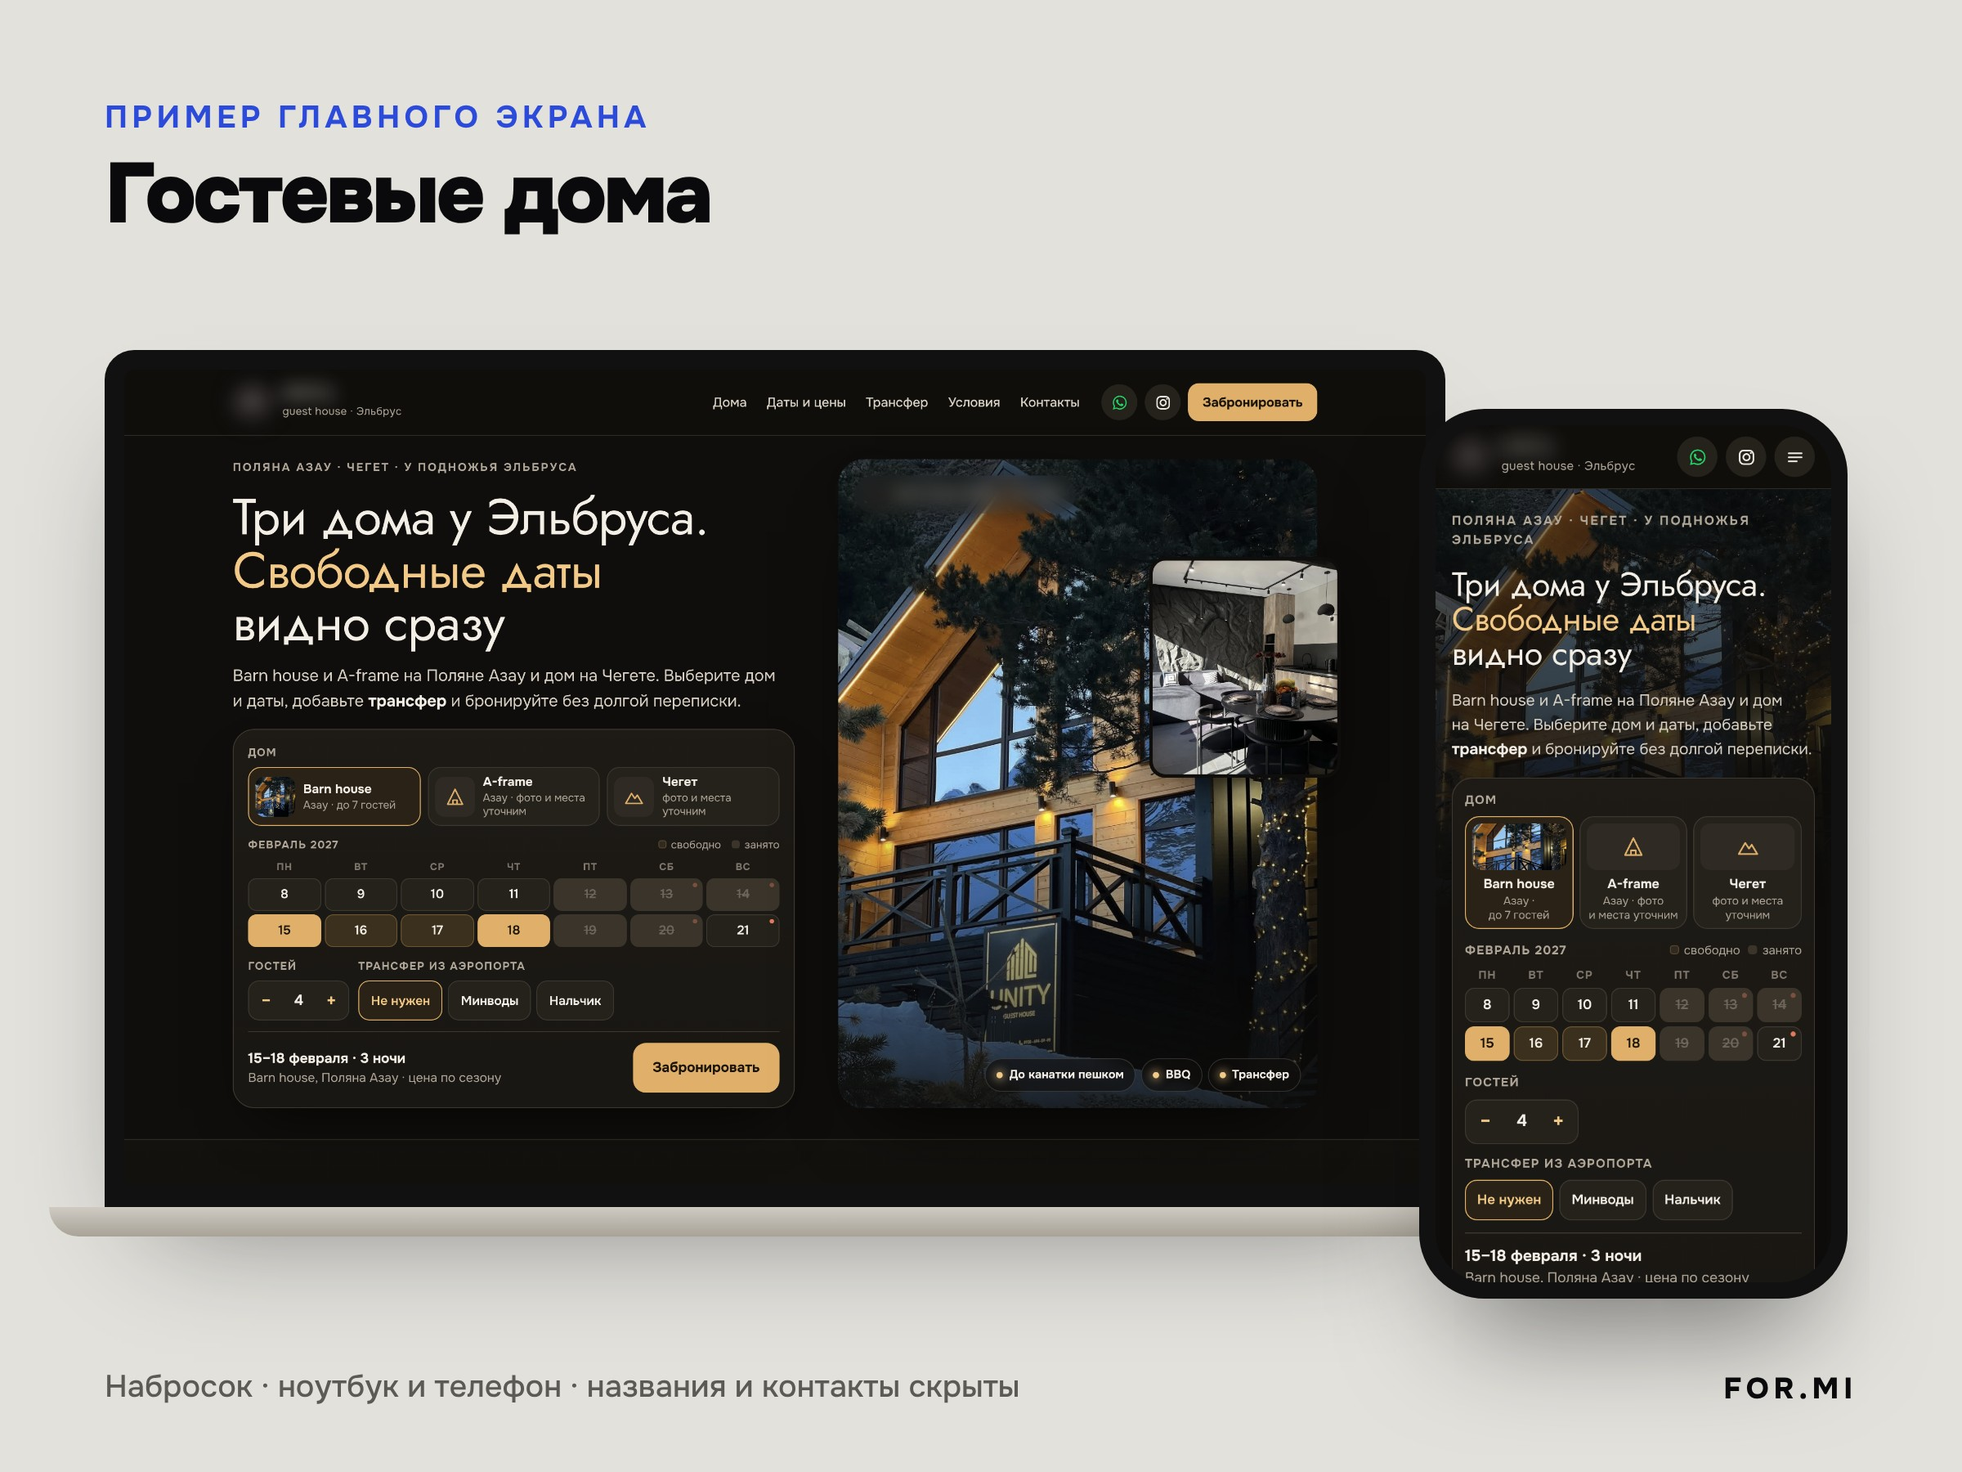
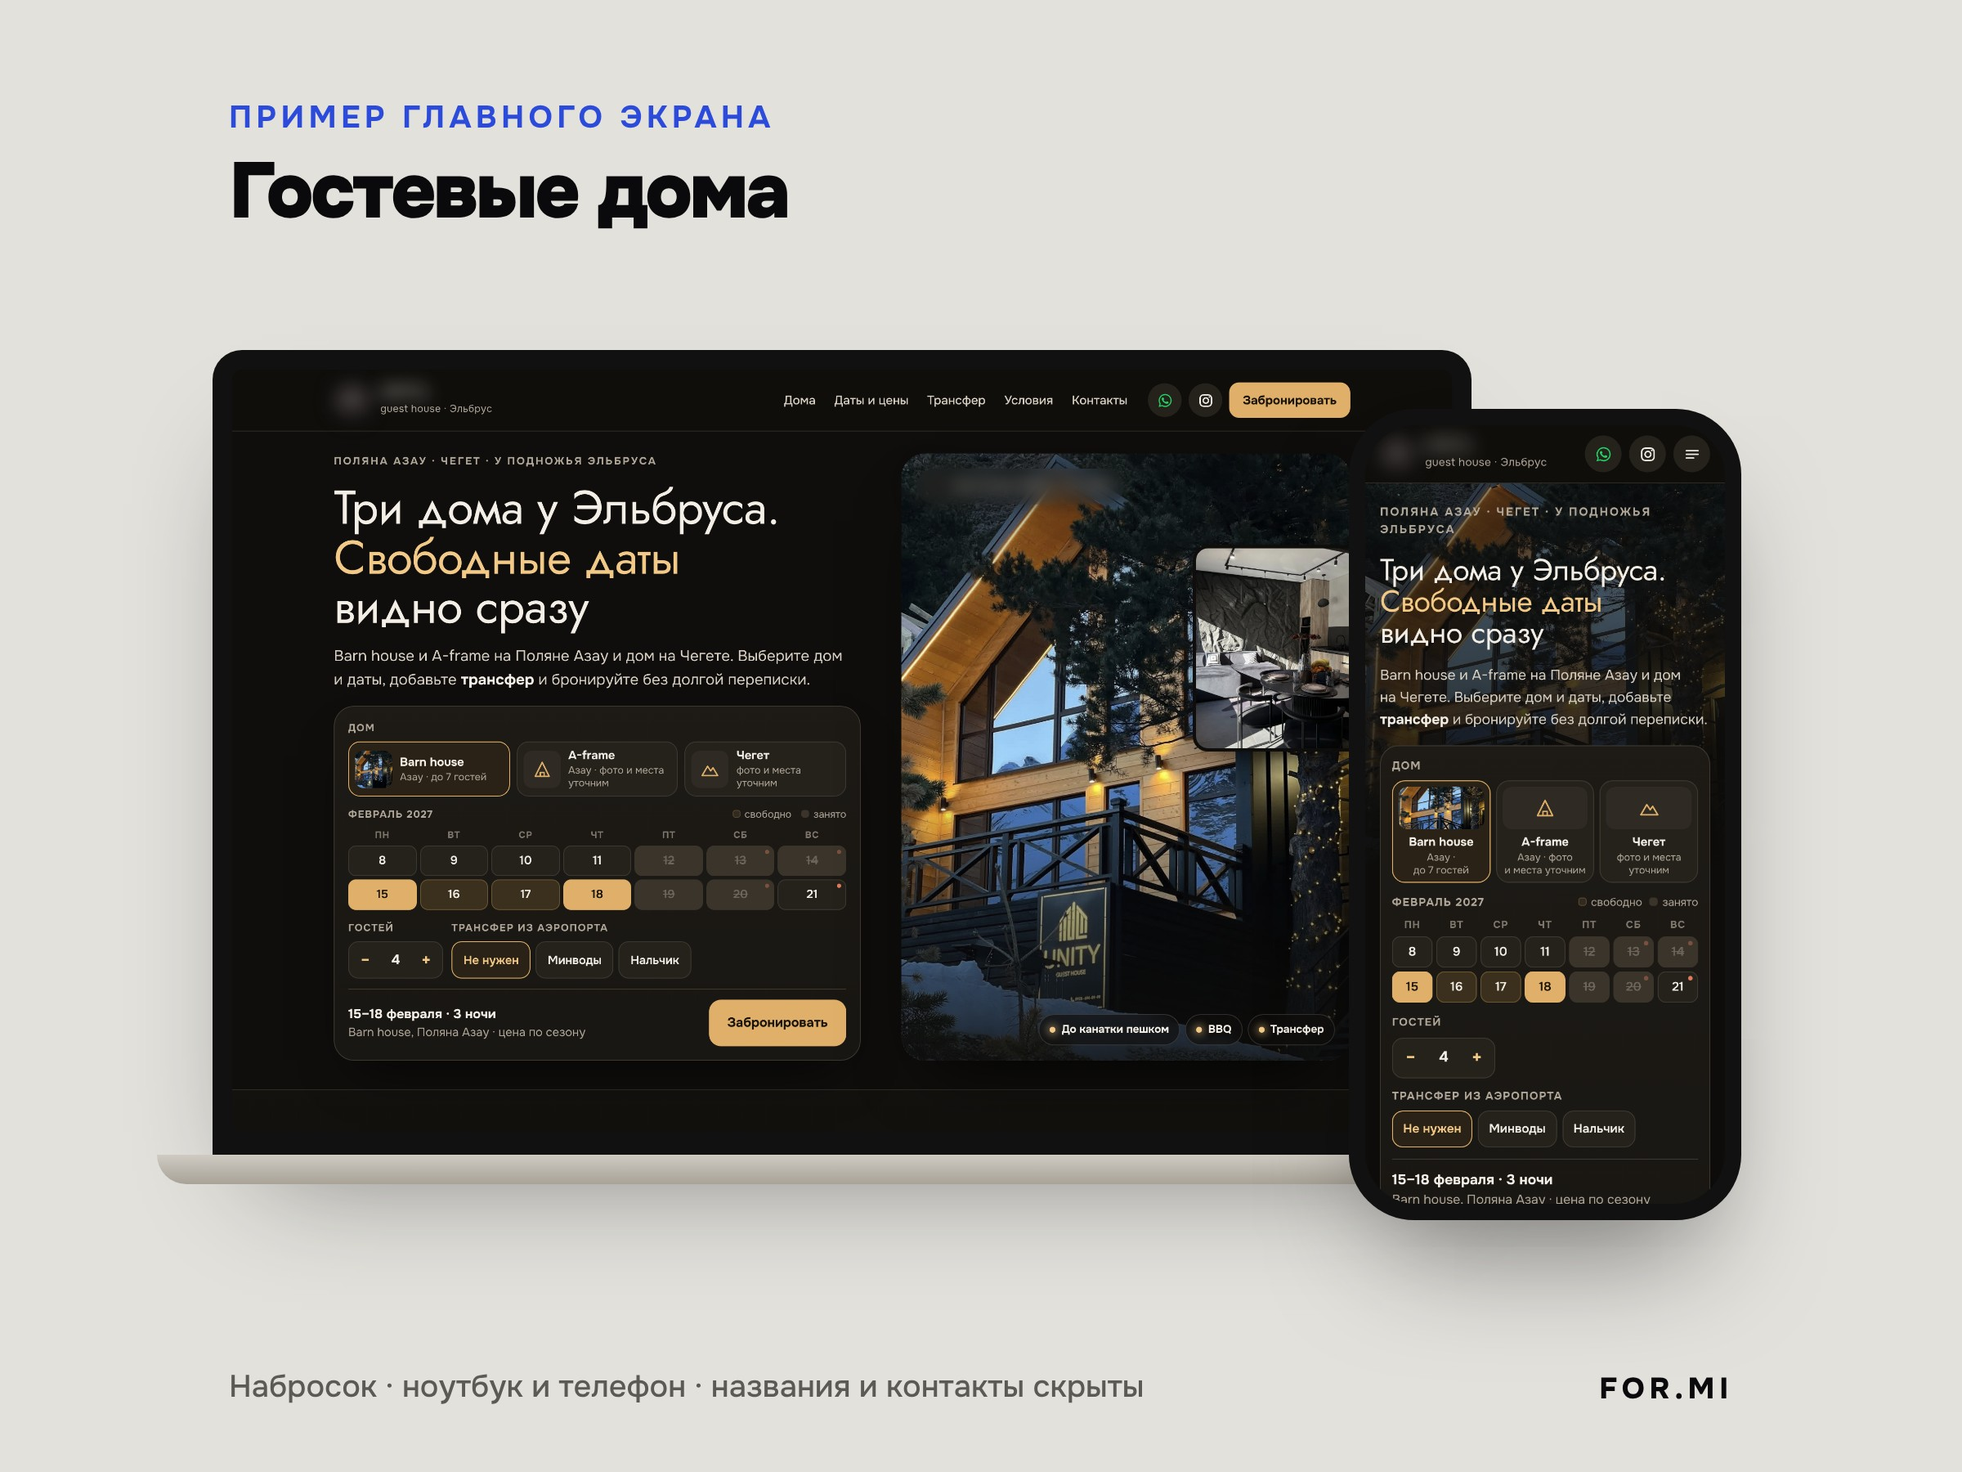
Авито: всё содержимое слайдов в безопасной зоне, приложение обрезает края
Claude-Session: https://claude.ai/code/session_01MqcZMHdjeZFFUuT8aB5MzJ

diff --git a/_instrumenty/avito.js b/_instrumenty/avito.js
@@ -84,49 +84,49 @@ h1,h2{margin:0;font-weight:900;letter-spacing:-.035em}
 </style>`;
 
 const exampleHtml=w=>`<!doctype html><html lang="ru"><head>${head}</head><body><div class="c">
-<div style="position:absolute;left:64px;top:60px;display:grid;gap:8px">
+<div style="position:absolute;left:140px;top:60px;display:grid;gap:8px">
   <div class="eb">Пример главного экрана</div>
-  <h2 style="font-size:52px;line-height:1.05">${w.niche}</h2>
+  <h2 style="font-size:48px;line-height:1.05">${w.niche}</h2>
 </div>
-<div class="lap" style="left:64px;top:214px;width:820px"><div class="sc"><img src="${fileUrl(w.lap)}"></div><div class="base"></div></div>
-<div class="tel" style="right:70px;top:250px;width:262px"><img src="${fileUrl(w.tel)}"></div>
-<div style="position:absolute;left:64px;bottom:40px;font-size:19px;color:${C.muted};font-weight:500">Набросок · ноутбук и телефон · названия и контакты скрыты</div>
-<div class="brand" style="right:64px;bottom:40px">FOR.MI</div>
+<div class="lap" style="left:130px;top:214px;width:770px"><div class="sc"><img src="${fileUrl(w.lap)}"></div><div class="base"></div></div>
+<div class="tel" style="right:135px;top:250px;width:240px"><img src="${fileUrl(w.tel)}"></div>
+<div style="position:absolute;left:140px;bottom:40px;font-size:19px;color:${C.muted};font-weight:500">Набросок · ноутбук и телефон · названия и контакты скрыты</div>
+<div class="brand" style="right:140px;bottom:40px">FOR.MI</div>
 </div></body></html>`;
 
 const stepsHtml=()=>`<!doctype html><html lang="ru"><head>${head}
 <style>.st{display:grid;grid-template-columns:84px 1fr;gap:24px;align-items:center;padding:24px 0;border-top:1px solid ${C.line}}
 .st b{width:70px;height:70px;border-radius:50%;background:${C.blue};color:#fff;display:grid;place-items:center;font-size:32px;font-weight:800}
 .st h3{margin:0 0 6px;font-size:34px;font-weight:800;letter-spacing:-.02em}.st p{margin:0;font-size:24px;color:${C.muted};line-height:1.35}</style>
-</head><body><div class="c" style="padding:60px 72px">
+</head><body><div class="c" style="padding:60px 140px">
 <div class="eb">Как работаем</div>
-<h2 style="font-size:60px;line-height:1.05;margin:12px 0 30px">Вы видите свой сайт <span class="scr" style="font-size:72px;letter-spacing:0;word-spacing:-.25em">до оплаты</span></h2>
+<h2 style="font-size:54px;line-height:1.05;margin:12px 0 30px">Вы видите свой сайт <span class="scr" style="font-size:66px;letter-spacing:0;word-spacing:-.25em">до оплаты</span></h2>
 <div class="st"><b>1</b><div><h3>Пишете, чем занимаетесь</h3><p>Задам 2–3 вопроса о клиентах и услугах</p></div></div>
 <div class="st"><b>2</b><div><h3>Через 1–2 дня показываю набросок</h3><p>Структура, первый экран с вашим названием и фото, разбор конкурентов</p></div></div>
 <div class="st"><b>3</b><div><h3>Нравится: делаем сайт целиком</h3><p>Цену считаем по блокам, оплата по этапам</p></div></div>
 <div class="st"><b>4</b><div><h3>Сайт полностью ваш</h3><p>Домен и доступы оформляем на вас</p></div></div>
-<div class="brand" style="right:72px;top:66px">FOR.MI</div>
+<div class="brand" style="right:140px;top:66px">FOR.MI</div>
 </div></body></html>`;
 
 const pin=`<svg width="30" height="30" viewBox="0 0 24 24"><path fill="${C.blue}" d="M12 2a7 7 0 0 0-7 7c0 5.2 7 13 7 13s7-7.8 7-13a7 7 0 0 0-7-7zm0 9.5A2.5 2.5 0 1 1 12 6.5a2.5 2.5 0 0 1 0 5z"/></svg>`;
 const tick=t=>`<div style="display:flex;gap:12px;align-items:center"><span style="flex:none;width:26px;height:26px;border-radius:50%;background:${C.blue};color:#fff;display:grid;place-items:center;font-size:15px;font-weight:800">✓</span>${t}</div>`;
 
 const kartyHtml=()=>`<!doctype html><html lang="ru"><head>${head}</head><body><div class="c">
-<img src="${fileUrl(path.join(root,'avito','foto','foto-2-kub.png'))}" style="position:absolute;right:-235px;top:34px;height:1000px">
-<div style="position:absolute;left:72px;top:140px;width:600px">
-  <div class="eb">Яндекс Карты и 2ГИС · работаю удалённо</div>
-  <h1 style="font-size:82px;line-height:.98;margin-top:26px">Клиенты рядом выберут вас</h1>
-  <div class="scr" style="font-size:100px;line-height:1;margin-top:6px;word-spacing:-.25em">на картах</div>
+<img src="${fileUrl(path.join(root,'avito','foto','foto-2-kub.png'))}" style="position:absolute;right:-300px;top:34px;height:1000px">
+<div style="position:absolute;left:140px;top:140px;width:540px">
+  <div class="eb" style="white-space:nowrap;font-size:17px">Яндекс Карты и 2ГИС · работаю удалённо</div>
+  <h1 style="font-size:76px;line-height:.98;margin-top:26px">Клиенты рядом выберут вас</h1>
+  <div class="scr" style="font-size:92px;line-height:1;margin-top:6px;word-spacing:-.25em">на картах</div>
   <div style="margin-top:46px;display:inline-grid;gap:4px;background:${C.blue};color:#fff;border-radius:18px;padding:20px 30px">
     <div style="font-size:30px;font-weight:800">Напишите «КАРТЫ»</div>
     <div style="font-size:19px;font-weight:500;opacity:.92">покажу, что поправить в вашей карточке</div>
   </div>
 </div>
-<div style="position:absolute;right:56px;bottom:60px;width:330px;background:${C.card};border-radius:22px;padding:22px 24px;box-shadow:0 30px 60px -20px rgb(0 0 0 / .35);display:grid;gap:14px;font-size:21px;font-weight:600">
+<div style="position:absolute;right:130px;bottom:60px;width:330px;background:${C.card};border-radius:22px;padding:22px 24px;box-shadow:0 30px 60px -20px rgb(0 0 0 / .35);display:grid;gap:14px;font-size:21px;font-weight:600">
   <div style="display:flex;gap:10px;align-items:center;font-size:22px;font-weight:800">${pin}Ваша карточка</div>
   ${tick('фото и описание')}${tick('услуги с ценами')}${tick('ответы на отзывы')}
 </div>
-<div class="brand" style="left:72px;bottom:48px">FOR.MI</div>
+<div class="brand" style="left:140px;bottom:48px">FOR.MI</div>
 </div></body></html>`;
 
 
@@ -134,39 +134,39 @@ const kartyVhoditHtml=()=>`<!doctype html><html lang="ru"><head>${head}
 <style>.it{display:grid;grid-template-columns:64px 1fr;gap:24px;align-items:center;padding:30px 0;border-top:1px solid ${C.line}}
 .it b{width:58px;height:58px;border-radius:50%;background:${C.blue};color:#fff;display:grid;place-items:center;font-size:28px;font-weight:800}
 .it h3{margin:0 0 6px;font-size:38px;font-weight:800;letter-spacing:-.02em}.it p{margin:0;font-size:27px;color:${C.muted};line-height:1.3}</style>
-</head><body><div class="c" style="padding:64px 72px">
+</head><body><div class="c" style="padding:64px 140px">
 <div class="eb">Яндекс Карты и 2ГИС</div>
-<h2 style="font-size:66px;line-height:1.05;margin:14px 0 26px">Что сделаю <span class="scr" style="font-size:80px;letter-spacing:0;word-spacing:-.25em">в карточке</span></h2>
+<h2 style="font-size:60px;line-height:1.05;margin:14px 0 26px">Что сделаю <span class="scr" style="font-size:72px;letter-spacing:0;word-spacing:-.25em">в карточке</span></h2>
 <div class="it"><b>✓</b><div><h3>Категории и описание</h3><p>Словами, которыми вас ищут: «маникюр рядом», «шиномонтаж 24 часа»</p></div></div>
 <div class="it"><b>✓</b><div><h3>Фото и обложка</h3><p>Отберу лучшие, уберу старые и тёмные</p></div></div>
 <div class="it"><b>✓</b><div><h3>Услуги и цены</h3><p>Чтобы человек видел цену до звонка</p></div></div>
 <div class="it"><b>✓</b><div><h3>Ответы на отзывы</h3><p>Разные, с именем и деталями, без «Спасибо за отзыв!»</p></div></div>
-<div class="brand" style="right:72px;top:62px">FOR.MI</div>
+<div class="brand" style="right:140px;top:62px">FOR.MI</div>
 </div></body></html>`;
 
 const kartyKakHtml=()=>`<!doctype html><html lang="ru"><head>${head}
 <style>.st{display:grid;grid-template-columns:92px 1fr;gap:28px;align-items:center;padding:40px 0;border-top:1px solid ${C.line}}
 .st b{width:80px;height:80px;border-radius:50%;background:${C.blue};color:#fff;display:grid;place-items:center;font-size:36px;font-weight:800}
 .st h3{margin:0 0 8px;font-size:40px;font-weight:800;letter-spacing:-.02em}.st p{margin:0;font-size:28px;color:${C.muted};line-height:1.35}</style>
-</head><body><div class="c" style="padding:60px 72px">
+</head><body><div class="c" style="padding:60px 140px">
 <div class="eb">Как работаем</div>
-<h2 style="font-size:64px;line-height:1.05;margin:14px 0 34px">Сначала покажу, <span class="scr" style="font-size:78px;letter-spacing:0;word-spacing:-.25em">что поправить</span></h2>
+<h2 style="font-size:56px;line-height:1.05;margin:14px 0 34px">Сначала покажу, <span class="scr" style="font-size:68px;letter-spacing:0;word-spacing:-.25em">что поправить</span></h2>
 <div class="st"><b>1</b><div><h3>Пишете «КАРТЫ» и название компании</h3><p>Нахожу вашу карточку в Яндекс Картах и 2ГИС</p></div></div>
 <div class="st"><b>2</b><div><h3>Присылаю, что в ней мешает</h3><p>Например: нет цен, фото трёхлетней давности, отзывы без ответов</p></div></div>
 <div class="st"><b>3</b><div><h3>Нравится: оформляю</h3><p>Карточка и все доступы остаются у вас</p></div></div>
-<div class="brand" style="right:72px;top:66px">FOR.MI</div>
+<div class="brand" style="right:140px;top:66px">FOR.MI</div>
 </div></body></html>`;
 
 const xmark=t=>`<div style="display:flex;gap:14px;align-items:flex-start"><span style="flex:none;width:30px;height:30px;border-radius:50%;background:#C9C6BE;color:#fff;display:grid;place-items:center;font-size:17px;font-weight:800;margin-top:2px">✕</span><span>${t}</span></div>`;
 const vmark=t=>`<div style="display:flex;gap:14px;align-items:flex-start"><span style="flex:none;width:30px;height:30px;border-radius:50%;background:${C.blue};color:#fff;display:grid;place-items:center;font-size:17px;font-weight:800;margin-top:2px">✓</span><span>${t}</span></div>`;
 const kartyDoPosleHtml=()=>`<!doctype html><html lang="ru"><head>${head}
-<style>.row{position:absolute;left:72px;right:72px;top:236px;bottom:96px;display:grid;grid-template-columns:1fr 1fr;gap:36px}
-.cd{border-radius:26px;padding:34px 36px;display:grid;align-content:start;gap:24px;font-size:29px;line-height:1.25}
+<style>.row{position:absolute;left:140px;right:140px;top:236px;bottom:96px;display:grid;grid-template-columns:1fr 1fr;gap:36px}
+.cd{border-radius:26px;padding:34px 36px;display:grid;align-content:start;gap:24px;font-size:26px;line-height:1.25}
 .cd h3{margin:0 0 4px;font-size:22px;font-weight:800;letter-spacing:.14em;text-transform:uppercase}</style>
 </head><body><div class="c">
-<div style="position:absolute;left:72px;top:62px;display:grid;gap:10px">
+<div style="position:absolute;left:140px;top:62px;display:grid;gap:10px">
   <div class="eb">Пример: студия маникюра</div>
-  <h2 style="font-size:62px;line-height:1.02">Та же карточка, <span class="scr" style="font-size:76px;letter-spacing:0;word-spacing:-.25em">до и после</span></h2>
+  <h2 style="font-size:56px;line-height:1.02">Та же карточка, <span class="scr" style="font-size:68px;letter-spacing:0;word-spacing:-.25em">до и после</span></h2>
 </div>
 <div class="row"><div class="cd" style="background:#D6D3CC;color:#57544E">
   <h3 style="color:#7C786F">Было</h3>
@@ -176,21 +176,21 @@ const kartyDoPosleHtml=()=>`<!doctype html><html lang="ru"><head>${head}
   <h3 style="color:${C.blue}">Стало</h3>
   ${vmark('Обложка и 12 светлых фото работ')}${vmark('Описание словами, которыми ищут')}${vmark('Прайс из 8 услуг')}${vmark('Часы и кнопка «Записаться»')}${vmark('Свой ответ на каждый отзыв')}
 </div></div>
-<div style="position:absolute;left:72px;bottom:40px;font-size:19px;color:${C.muted};font-weight:500">Пример для наглядности</div>
-<div class="brand" style="right:72px;bottom:40px">FOR.MI</div>
+<div style="position:absolute;left:140px;bottom:40px;font-size:19px;color:${C.muted};font-weight:500">Пример для наглядности</div>
+<div class="brand" style="right:140px;bottom:40px">FOR.MI</div>
 </div></body></html>`;
 
 const oboMneHtml=()=>`<!doctype html><html lang="ru"><head>${head}</head><body><div class="c">
-<img src="${fileUrl(path.join(root,'avito','foto','foto-1-sidit.png'))}" style="position:absolute;right:-160px;top:24px;height:980px;-webkit-mask-image:linear-gradient(90deg,transparent 0,transparent 8%,#000 38%);mask-image:linear-gradient(90deg,transparent 0,transparent 8%,#000 38%)">
-<div style="position:absolute;left:72px;top:120px;width:520px">
+<img src="${fileUrl(path.join(root,'avito','foto','foto-1-sidit.png'))}" style="position:absolute;right:-230px;top:24px;height:980px;-webkit-mask-image:linear-gradient(90deg,transparent 0,transparent 8%,#000 38%);mask-image:linear-gradient(90deg,transparent 0,transparent 8%,#000 38%)">
+<div style="position:absolute;left:140px;top:120px;width:470px">
   <div class="eb">Кто будет работать с вами</div>
-  <h1 style="font-size:96px;line-height:1;margin-top:22px">Анастасия</h1>
+  <h1 style="font-size:84px;line-height:1;margin-top:22px">Анастасия</h1>
   <div style="font-size:28px;line-height:1.35;color:${C.muted};margin-top:20px">Делаю сайты и карточки на картах для малого бизнеса. Работаю удалённо, на связи в чате каждый день.</div>
   <div style="display:grid;gap:14px;margin-top:34px;font-size:25px;font-weight:600">
     ${vmark('Самозанятая, чек на каждую оплату')}${vmark('Договор и оплата по этапам')}${vmark('Все доступы оформляю на вас')}
   </div>
 </div>
-<div class="brand" style="left:72px;bottom:48px">FOR.MI</div>
+<div class="brand" style="left:140px;bottom:48px">FOR.MI</div>
 </div></body></html>`;
 
 (async()=>{
